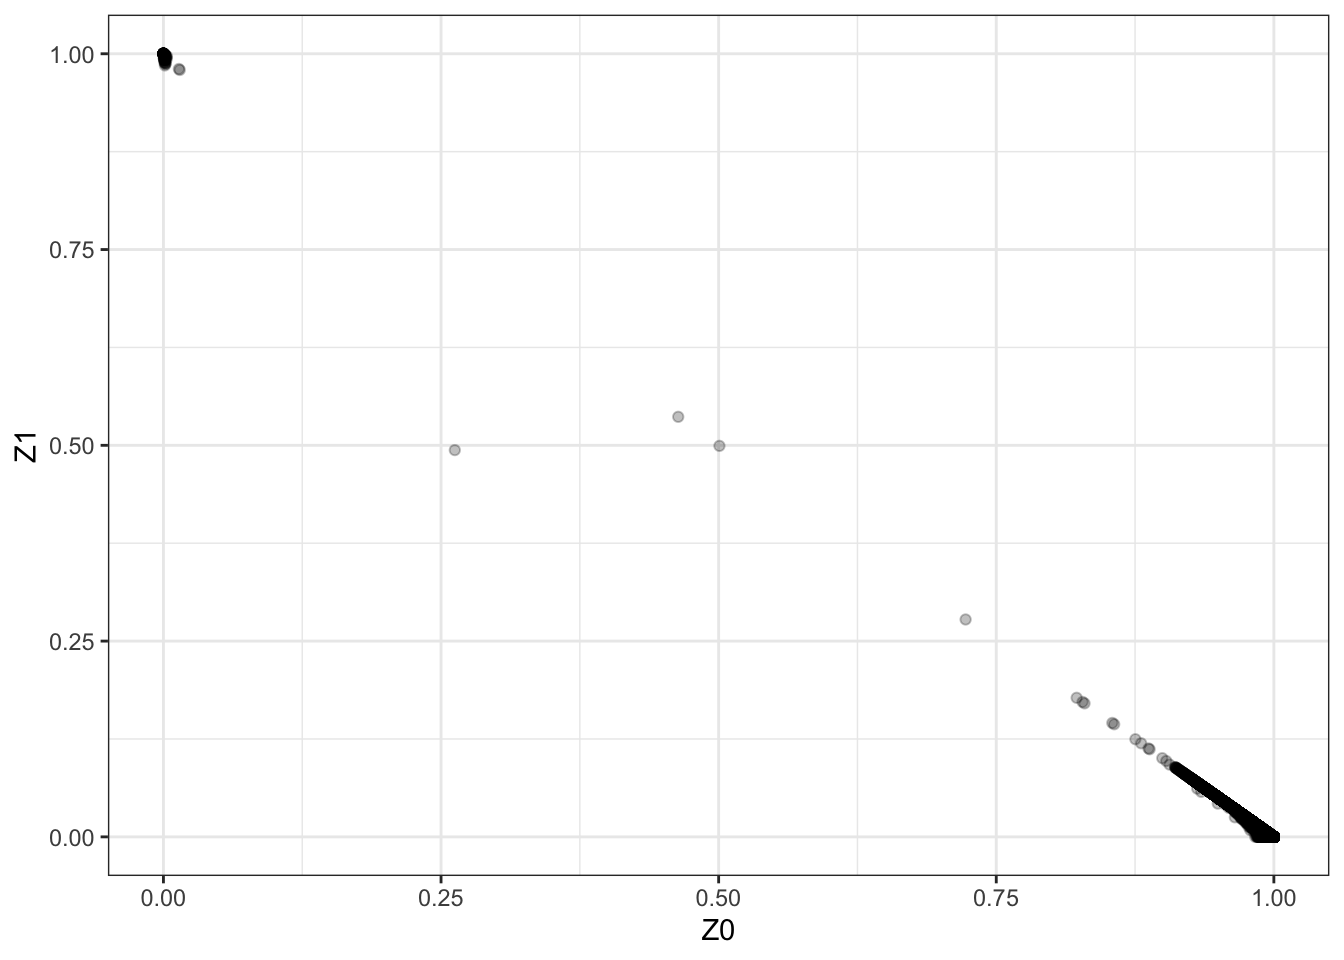
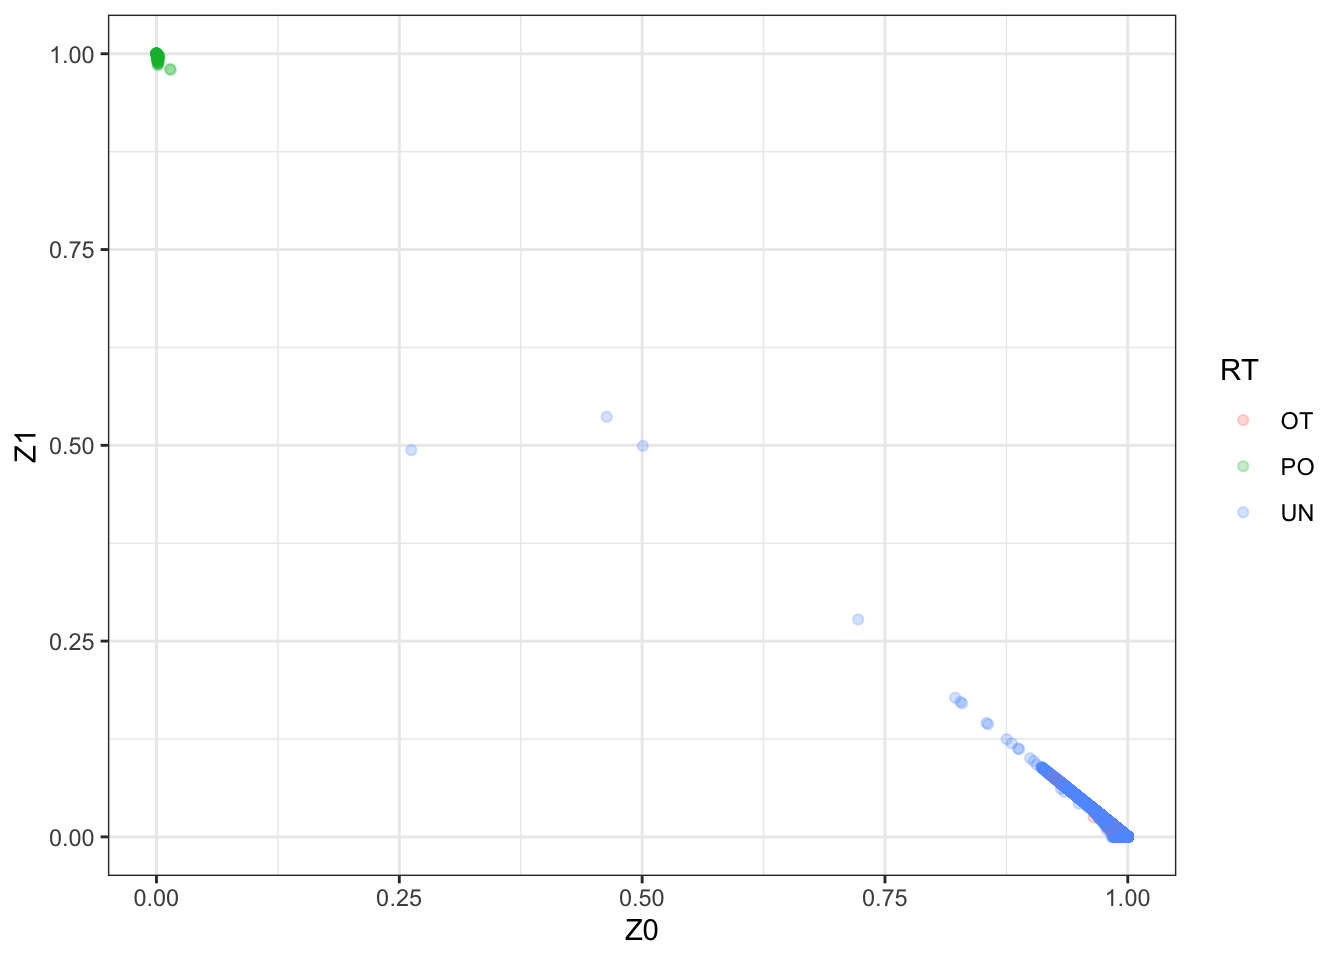
Build site.

diff --git a/docs/02-RelatednessFiltering.html b/docs/02-RelatednessFiltering.html
@@ -413,7 +413,7 @@ div.tocify {
 <div class="tab-content">
 <div id="summary" class="tab-pane fade in active">
 <p>
-<strong>Last updated:</strong> 2020-11-17
+<strong>Last updated:</strong> 2020-11-29
 </p>
 <p>
 <strong>Checks:</strong> <span class="glyphicon glyphicon-ok text-success" aria-hidden="true"></span> 7 <span class="glyphicon glyphicon-exclamation-sign text-danger" aria-hidden="true"></span> 0
@@ -504,16 +504,16 @@ This reproducible <a href="http://rmarkdown.rstudio.com">R Markdown</a> analysis
 <div class="panel panel-default">
 <div class="panel-heading">
 <p class="panel-title">
-<a data-toggle="collapse" data-parent="#workflowr-checks" href="#strongRepositoryversionstrongahrefhttpsgithubcomrheapragGWASQCtree50f65b25a04ef606d9e102864d2693d06ca1aa76targetblank50f65b2a"> <span class="glyphicon glyphicon-ok text-success" aria-hidden="true"></span> <strong>Repository version:</strong> <a href="https://github.com/rheaprag/GWAS_QC/tree/50f65b25a04ef606d9e102864d2693d06ca1aa76" target="_blank">50f65b2</a> </a>
+<a data-toggle="collapse" data-parent="#workflowr-checks" href="#strongRepositoryversionstrongahrefhttpsgithubcomrheapragGWASQCtree13df39028cef8c82de47b6df1e5fdd6dd0772a74targetblank13df390a"> <span class="glyphicon glyphicon-ok text-success" aria-hidden="true"></span> <strong>Repository version:</strong> <a href="https://github.com/rheaprag/GWAS_QC/tree/13df39028cef8c82de47b6df1e5fdd6dd0772a74" target="_blank">13df390</a> </a>
 </p>
 </div>
[2 lines of base64/hex data omitted]
 <div class="panel-body">
 <p>
 Great! You are using Git for version control. Tracking code development and connecting the code version to the results is critical for reproducibility.
 </p>
 <p>
-The results in this page were generated with repository version <a href="https://github.com/rheaprag/GWAS_QC/tree/50f65b25a04ef606d9e102864d2693d06ca1aa76" target="_blank">50f65b2</a>. See the <em>Past versions</em> tab to see a history of the changes made to the R Markdown and HTML files.
+The results in this page were generated with repository version <a href="https://github.com/rheaprag/GWAS_QC/tree/13df39028cef8c82de47b6df1e5fdd6dd0772a74" target="_blank">13df390</a>. See the <em>Past versions</em> tab to see a history of the changes made to the R Markdown and HTML files.
 </p>
 <p>
 Note that you need to be careful to ensure that all relevant files for the analysis have been committed to Git prior to generating the results (you can use <code>wflow_publish</code> or <code>wflow_git_commit</code>). workflowr only checks the R Markdown file, but you know if there are other scripts or data files that it depends on. Below is the status of the Git repository when the results were generated:
@@ -548,39 +548,26 @@ Untracked files:
     Untracked:  hapmap3_02_1_African.log
     Untracked:  hapmap3_02_1_African.prune.in
     Untracked:  hapmap3_02_1_African.prune.out
-    Untracked:  hapmap3_02_1_ChineseColorado.log
-    Untracked:  hapmap3_02_1_ColoradoChinese.log
     Untracked:  hapmap3_02_1_ColoradoChinese.prune.in
     Untracked:  hapmap3_02_1_ColoradoChinese.prune.out
-    Untracked:  hapmap3_02_1_EastAsia.log
     Untracked:  hapmap3_02_1_EastAsia.prune.in
     Untracked:  hapmap3_02_1_EastAsia.prune.out
-    Untracked:  hapmap3_02_1_Gujarati.log
     Untracked:  hapmap3_02_1_Gujarati.prune.in
     Untracked:  hapmap3_02_1_Gujarati.prune.out
-    Untracked:  hapmap3_02_1_Mexican.log
     Untracked:  hapmap3_02_1_Mexican.prune.in
     Untracked:  hapmap3_02_1_Mexican.prune.out
-    Untracked:  hapmap3_02_1_Toscans.log
     Untracked:  hapmap3_02_1_Toscans.prune.in
     Untracked:  hapmap3_02_1_Toscans.prune.out
-    Untracked:  hapmap3_02_1_Utah.log
     Untracked:  hapmap3_02_1_Utah.prune.in
     Untracked:  hapmap3_02_1_Utah.prune.out
     Untracked:  hapmap3_02_2_African.genome
     Untracked:  hapmap3_02_2_African.log
     Untracked:  hapmap3_02_2_ColoradoChinese.genome
-    Untracked:  hapmap3_02_2_ColoradoChinese.log
     Untracked:  hapmap3_02_2_EastAsia.genome
-    Untracked:  hapmap3_02_2_EastAsia.log
     Untracked:  hapmap3_02_2_Gujarati.genome
-    Untracked:  hapmap3_02_2_Gujarati.log
     Untracked:  hapmap3_02_2_Mexican.genome
-    Untracked:  hapmap3_02_2_Mexican.log
     Untracked:  hapmap3_02_2_Toscans.genome
-    Untracked:  hapmap3_02_2_Toscans.log
     Untracked:  hapmap3_02_2_Utah.genome
-    Untracked:  hapmap3_02_2_Utah.log
     Untracked:  hapmap3_allpop.genome
     Untracked:  hapmap3_allpop.log
     Untracked:  hapmap3_allpop.prune.in
@@ -595,37 +582,26 @@ Untracked files:
     Untracked:  hapmap_ColoradoChinese.bed
     Untracked:  hapmap_ColoradoChinese.bim
     Untracked:  hapmap_ColoradoChinese.fam
-    Untracked:  hapmap_ColoradoChinese.hh
-    Untracked:  hapmap_ColoradoChinese.log
     Untracked:  hapmap_EastAsia.bed
     Untracked:  hapmap_EastAsia.bim
     Untracked:  hapmap_EastAsia.fam
-    Untracked:  hapmap_EastAsia.hh
-    Untracked:  hapmap_EastAsia.log
     Untracked:  hapmap_EastAsia_populations.txt
     Untracked:  hapmap_Gujarati.bed
     Untracked:  hapmap_Gujarati.bim
     Untracked:  hapmap_Gujarati.fam
-    Untracked:  hapmap_Gujarati.log
     Untracked:  hapmap_Gujarati_populations.txt
     Untracked:  hapmap_Mexican.bed
     Untracked:  hapmap_Mexican.bim
     Untracked:  hapmap_Mexican.fam
-    Untracked:  hapmap_Mexican.hh
-    Untracked:  hapmap_Mexican.log
     Untracked:  hapmap_Mexican_populations.txt
     Untracked:  hapmap_Toscans.bed
     Untracked:  hapmap_Toscans.bim
     Untracked:  hapmap_Toscans.fam
-    Untracked:  hapmap_Toscans.log
     Untracked:  hapmap_Toscans_populations.txt
     Untracked:  hapmap_Utah.bed
     Untracked:  hapmap_Utah.bim
     Untracked:  hapmap_Utah.fam
-    Untracked:  hapmap_Utah.hh
-    Untracked:  hapmap_Utah.log
     Untracked:  hapmap_Utah_populations.txt
-    Untracked:  plink
     Untracked:  relationships_w_pops_121708.txt
 
 </code></pre>
@@ -665,6 +641,40 @@ Message
 </tr>
 </thead>
 <tbody>
+<tr>
+<td>
+Rmd
+</td>
+<td>
+<a href="https://github.com/rheaprag/GWAS_QC/blob/13df39028cef8c82de47b6df1e5fdd6dd0772a74/analysis/02-RelatednessFiltering.Rmd" target="_blank">13df390</a>
+</td>
+<td>
+rheaprag
+</td>
+<td>
+2020-11-29
+</td>
+<td>
+Add color to IBD plots
+</td>
+</tr>
+<tr>
+<td>
+html
+</td>
+<td>
+<a href="https://rawcdn.githack.com/rheaprag/GWAS_QC/350c4b8eba974ba461910ec2396a4359bfa66913/docs/02-RelatednessFiltering.html" target="_blank">350c4b8</a>
+</td>
+<td>
+rheaprag
+</td>
+<td>
+2020-11-17
+</td>
+<td>
+Build site.
+</td>
+</tr>
 <tr>
 <td>
 Rmd
@@ -1160,7 +1170,7 @@ Add 02 analysis
 <p>In order to check the IBD:</p>
 <pre><code>library(&quot;ggplot2&quot;)
 ibd &lt;- read.table(&quot;hapmap3_02_2_African.genome&quot;, header = T)
-ggplot(data=ibd,aes(x=Z0,y=Z1))+geom_point(alpha=1/4)+theme_bw()</code></pre>
+ggplot(data=ibd,aes(x=Z0,y=Z1,color=RT))+geom_point(alpha=1/4)+theme_bw()</code></pre>
 <p><img src="figure/02-RelatednessFiltering.Rmd/unnamed-chunk-1-1.png" width="672" style="display: block; margin: auto;" /></p>
 <p>
 <button type="button" class="btn btn-default btn-xs btn-workflowr btn-workflowr-fig" data-toggle="collapse" data-target="#fig-unnamed-chunk-1-1">
@@ -1281,7 +1291,7 @@ rheaprag
 <pre class="r"><code>sessionInfo()</code></pre>
 <pre><code>R version 4.0.2 (2020-06-22)
 Platform: x86_64-apple-darwin17.0 (64-bit)
-Running under: macOS Catalina 10.15.7
+Running under: macOS  10.16
 
 Matrix products: default
 BLAS:   /Library/Frameworks/R.framework/Versions/4.0/Resources/lib/libRblas.dylib

diff --git a/docs/IBD_plots.html b/docs/IBD_plots.html
@@ -413,7 +413,7 @@ div.tocify {
 <div class="tab-content">
 <div id="summary" class="tab-pane fade in active">
 <p>
-<strong>Last updated:</strong> 2020-11-17
+<strong>Last updated:</strong> 2020-11-29
 </p>
 <p>
 <strong>Checks:</strong> <span class="glyphicon glyphicon-ok text-success" aria-hidden="true"></span> 7 <span class="glyphicon glyphicon-exclamation-sign text-danger" aria-hidden="true"></span> 0
@@ -504,16 +504,16 @@ This reproducible <a href="http://rmarkdown.rstudio.com">R Markdown</a> analysis
 <div class="panel panel-default">
 <div class="panel-heading">
 <p class="panel-title">
-<a data-toggle="collapse" data-parent="#workflowr-checks" href="#strongRepositoryversionstrongahrefhttpsgithubcomrheapragGWASQCtree79e330e9078180c4b131896818e18a184ef56909targetblank79e330ea"> <span class="glyphicon glyphicon-ok text-success" aria-hidden="true"></span> <strong>Repository version:</strong> <a href="https://github.com/rheaprag/GWAS_QC/tree/79e330e9078180c4b131896818e18a184ef56909" target="_blank">79e330e</a> </a>
+<a data-toggle="collapse" data-parent="#workflowr-checks" href="#strongRepositoryversionstrongahrefhttpsgithubcomrheapragGWASQCtree13df39028cef8c82de47b6df1e5fdd6dd0772a74targetblank13df390a"> <span class="glyphicon glyphicon-ok text-success" aria-hidden="true"></span> <strong>Repository version:</strong> <a href="https://github.com/rheaprag/GWAS_QC/tree/13df39028cef8c82de47b6df1e5fdd6dd0772a74" target="_blank">13df390</a> </a>
 </p>
 </div>
[2 lines of base64/hex data omitted]
 <div class="panel-body">
 <p>
 Great! You are using Git for version control. Tracking code development and connecting the code version to the results is critical for reproducibility.
 </p>
 <p>
-The results in this page were generated with repository version <a href="https://github.com/rheaprag/GWAS_QC/tree/79e330e9078180c4b131896818e18a184ef56909" target="_blank">79e330e</a>. See the <em>Past versions</em> tab to see a history of the changes made to the R Markdown and HTML files.
+The results in this page were generated with repository version <a href="https://github.com/rheaprag/GWAS_QC/tree/13df39028cef8c82de47b6df1e5fdd6dd0772a74" target="_blank">13df390</a>. See the <em>Past versions</em> tab to see a history of the changes made to the R Markdown and HTML files.
 </p>
 <p>
 Note that you need to be careful to ensure that all relevant files for the analysis have been committed to Git prior to generating the results (you can use <code>wflow_publish</code> or <code>wflow_git_commit</code>). workflowr only checks the R Markdown file, but you know if there are other scripts or data files that it depends on. Below is the status of the Git repository when the results were generated:
@@ -602,7 +602,6 @@ Untracked files:
     Untracked:  hapmap_Utah.bim
     Untracked:  hapmap_Utah.fam
     Untracked:  hapmap_Utah_populations.txt
-    Untracked:  plink
     Untracked:  relationships_w_pops_121708.txt
 
 </code></pre>
@@ -642,6 +641,40 @@ Message
 </tr>
 </thead>
 <tbody>
+<tr>
+<td>
+Rmd
+</td>
+<td>
+<a href="https://github.com/rheaprag/GWAS_QC/blob/13df39028cef8c82de47b6df1e5fdd6dd0772a74/analysis/IBD_plots.Rmd" target="_blank">13df390</a>
+</td>
+<td>
+rheaprag
+</td>
+<td>
+2020-11-29
+</td>
+<td>
+Add color to IBD plots
+</td>
+</tr>
+<tr>
+<td>
+html
+</td>
+<td>
+<a href="https://rawcdn.githack.com/rheaprag/GWAS_QC/121bbd04b45a950a4792185a4b4d44df8cddb534/docs/IBD_plots.html" target="_blank">121bbd0</a>
+</td>
+<td>
+rheaprag
+</td>
+<td>
+2020-11-17
+</td>
+<td>
+Build site.
+</td>
+</tr>
 <tr>
 <td>
 Rmd
@@ -756,7 +789,7 @@ rheaprag
 <pre><code>./plink --bfile hapmap_Utah --extract hapmap3_02_1_Utah.prune.in --genome --out hapmap3_02_2_Utah</code></pre>
 <pre><code>library(&quot;ggplot2&quot;)
 ibd &lt;- read.table(&quot;hapmap3_02_2_Utah.genome&quot;, header = T)
-ggplot(data=ibd,aes(x=Z0,y=Z1))+geom_point(alpha=1/4)+theme_bw()</code></pre>
+ggplot(data=ibd,aes(x=Z0,y=Z1,color=RT))+geom_point(alpha=1/4)+theme_bw()</code></pre>
 <p><img src="figure/IBD_plots.Rmd/unnamed-chunk-2-1.png" width="672" style="display: block; margin: auto;" /></p>
 <p>
 <button type="button" class="btn btn-default btn-xs btn-workflowr btn-workflowr-fig" data-toggle="collapse" data-target="#fig-unnamed-chunk-2-1">
@@ -802,7 +835,7 @@ rheaprag
 <pre><code>./plink --bfile hapmap_ColoradoChinese --extract hapmap3_02_1_ColoradoChinese.prune.in --genome --out hapmap3_02_2_ColoradoChinese</code></pre>
 <pre><code>library(&quot;ggplot2&quot;)
 ibd &lt;- read.table(&quot;hapmap3_02_2_ColoradoChinese.genome&quot;, header = T)
-ggplot(data=ibd,aes(x=Z0,y=Z1))+geom_point(alpha=1/4)+theme_bw()</code></pre>
+ggplot(data=ibd,aes(x=Z0,y=Z1,color=RT))+geom_point(alpha=1/4)+theme_bw()</code></pre>
 <p><img src="figure/IBD_plots.Rmd/unnamed-chunk-3-1.png" width="672" style="display: block; margin: auto;" /></p>
 <p>
 <button type="button" class="btn btn-default btn-xs btn-workflowr btn-workflowr-fig" data-toggle="collapse" data-target="#fig-unnamed-chunk-3-1">
@@ -848,7 +881,7 @@ rheaprag
 <pre><code>./plink --bfile hapmap_Gujarati --extract hapmap3_02_1_Gujarati.prune.in --genome --out hapmap3_02_2_Gujarati</code></pre>
 <pre><code>library(&quot;ggplot2&quot;)
 ibd &lt;- read.table(&quot;hapmap3_02_2_Gujarati.genome&quot;, header = T)
-ggplot(data=ibd,aes(x=Z0,y=Z1))+geom_point(alpha=1/4)+theme_bw()</code></pre>
+ggplot(data=ibd,aes(x=Z0,y=Z1,color=RT))+geom_point(alpha=1/4)+theme_bw()</code></pre>
 <p><img src="figure/IBD_plots.Rmd/unnamed-chunk-4-1.png" width="672" style="display: block; margin: auto;" /></p>
 <p>
 <button type="button" class="btn btn-default btn-xs btn-workflowr btn-workflowr-fig" data-toggle="collapse" data-target="#fig-unnamed-chunk-4-1">
@@ -894,7 +927,7 @@ rheaprag
 <pre><code>./plink --bfile hapmap_Mexican --extract hapmap3_02_1_Mexican.prune.in --genome --out hapmap3_02_2_Mexican</code></pre>
 <pre><code>library(&quot;ggplot2&quot;)
 ibd &lt;- read.table(&quot;hapmap3_02_2_Mexican.genome&quot;, header = T)
-ggplot(data=ibd,aes(x=Z0,y=Z1))+geom_point(alpha=1/4)+theme_bw()</code></pre>
+ggplot(data=ibd,aes(x=Z0,y=Z1,color=RT))+geom_point(alpha=1/4)+theme_bw()</code></pre>
 <p><img src="figure/IBD_plots.Rmd/unnamed-chunk-5-1.png" width="672" style="display: block; margin: auto;" /></p>
 <p>
 <button type="button" class="btn btn-default btn-xs btn-workflowr btn-workflowr-fig" data-toggle="collapse" data-target="#fig-unnamed-chunk-5-1">
@@ -940,7 +973,7 @@ rheaprag
 <pre><code>./plink --bfile hapmap_Toscans --extract hapmap3_02_1_Toscans.prune.in --genome --out hapmap3_02_2_Toscans</code></pre>
 <pre><code>library(&quot;ggplot2&quot;)
 ibd &lt;- read.table(&quot;hapmap3_02_2_Toscans.genome&quot;, header = T)
-ggplot(data=ibd,aes(x=Z0,y=Z1))+geom_point(alpha=1/4)+theme_bw()</code></pre>
+ggplot(data=ibd,aes(x=Z0,y=Z1,color=RT))+geom_point(alpha=1/4)+theme_bw()</code></pre>
 <p><img src="figure/IBD_plots.Rmd/unnamed-chunk-6-1.png" width="672" style="display: block; margin: auto;" /></p>
 <p>
 <button type="button" class="btn btn-default btn-xs btn-workflowr btn-workflowr-fig" data-toggle="collapse" data-target="#fig-unnamed-chunk-6-1">
@@ -989,7 +1022,7 @@ rheaprag
 <pre class="r"><code>sessionInfo()</code></pre>
 <pre><code>R version 4.0.2 (2020-06-22)
 Platform: x86_64-apple-darwin17.0 (64-bit)
-Running under: macOS Catalina 10.15.7
+Running under: macOS  10.16
 
 Matrix products: default
 BLAS:   /Library/Frameworks/R.framework/Versions/4.0/Resources/lib/libRblas.dylib
